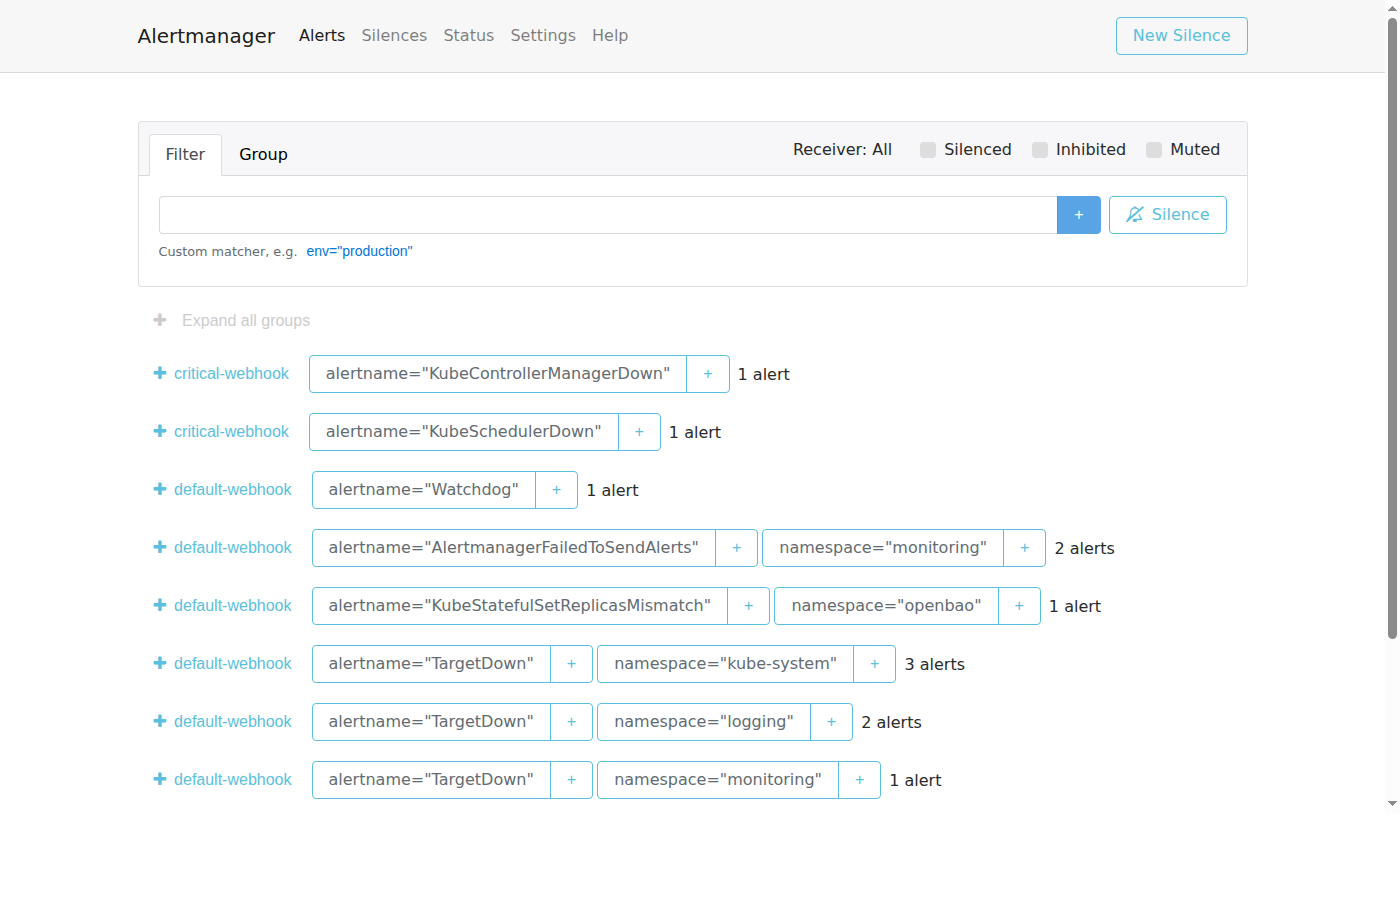
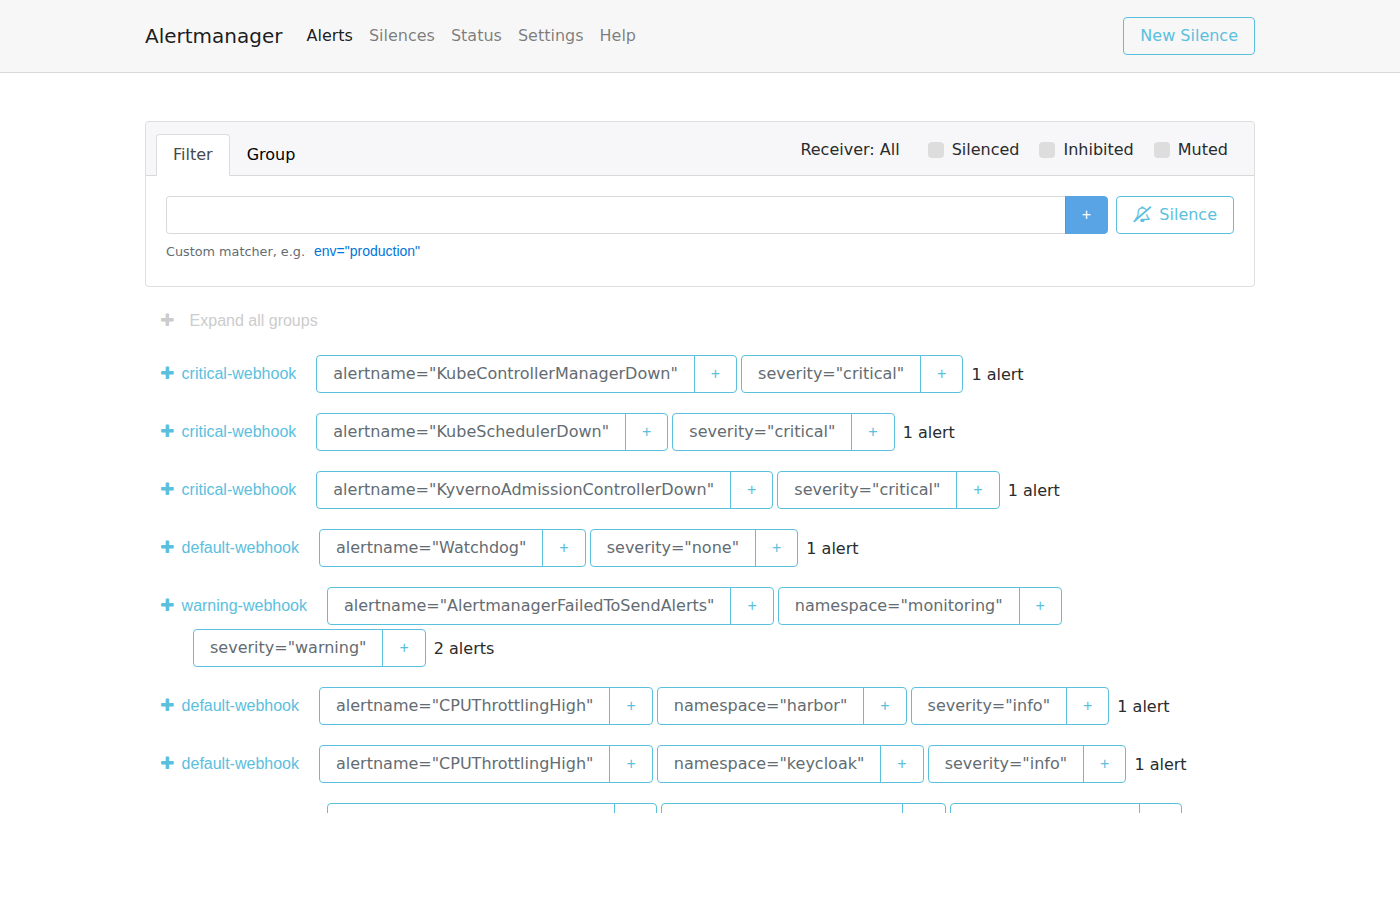
docs: update README and screenshots for full roadmap completion
- Retake all 8 screenshots (dashboard, grafana, prometheus, alertmanager,
  harbor, keycloak SSO login, neuvector, demo app)
- Update README: 18 components, Kyverno Enforce modes, secrets management,
  SSO/Keycloak config, observability details, CI/CD pipeline, compliance
  artifacts table, demo app, project structure updates
- Add Keycloak screenshot section

diff --git a/README.md b/README.md
@@ -5,15 +5,15 @@ A hardened, compliance-ready Kubernetes platform for deploying applications in r
 [![License](https://img.shields.io/badge/License-Apache_2.0-blue.svg)](LICENSE)
 [![RKE2](https://img.shields.io/badge/K8s-RKE2_v1.34-blue.svg)](https://docs.rke2.io)
 [![Flux CD](https://img.shields.io/badge/GitOps-Flux_CD_v2-blue.svg)](https://fluxcd.io)
-[![Components](https://img.shields.io/badge/Platform-16_components-green.svg)](#platform-components)
+[![Components](https://img.shields.io/badge/Platform-18_components-green.svg)](#platform-components)
 
 ---
 
 ## What You Get
 
-A complete Kubernetes platform with 16 integrated components, all deployed and managed through GitOps:
+A complete Kubernetes platform with 18 integrated components, all deployed and managed through GitOps:
 
-![SRE Dashboard showing 16/16 healthy components](docs/images/dashboard.png)
+![SRE Dashboard showing all healthy components](docs/images/dashboard.png)
 
 | Category | Components | What It Does |
 |----------|-----------|-------------|
@@ -141,8 +141,13 @@ Container behavioral monitoring, network microsegmentation, and CIS benchmark sc
 
 ![NeuVector](docs/images/neuvector.png)
 
+### Keycloak — SSO & Identity
+OIDC/SAML single sign-on for all platform UIs with group-based RBAC.
+
+![Keycloak](docs/images/keycloak.png)
+
 ### Demo App — Deployed via Dashboard
-A sample nginx app deployed through the dashboard, running with Istio mTLS sidecar injection.
+A sample app deployed through the dashboard, running with Istio mTLS sidecar injection.
 
 ![Demo App](docs/images/demo-app.png)
 
@@ -346,17 +351,63 @@ No `kubectl apply` needed. No manual cluster access. Git is the single source of
 | Harbor | 1.16.3 | harbor |
 | Keycloak | 24.8.1 | keycloak |
 
-### Kyverno Policies (7 active, Audit mode)
+### Kyverno Policies (7 active)
 
-| Policy | What It Enforces |
-|--------|-----------------|
-| `disallow-default-namespace` | Blocks deployments to the `default` namespace |
-| `disallow-latest-tag` | Blocks `:latest` image tags |
-| `require-labels` | Requires `app.kubernetes.io/name` and `sre.io/team` labels |
-| `require-network-policies` | Ensures every namespace has a default-deny NetworkPolicy |
-| `require-probes` | Requires liveness and readiness probes on all containers |
-| `require-resource-limits` | Requires CPU and memory limits on all containers |
-| `restrict-image-registries` | Restricts images to approved registries |
+| Policy | Mode | What It Enforces |
+|--------|------|-----------------|
+| `disallow-latest-tag` | **Enforce** | Blocks `:latest` image tags |
+| `require-labels` | **Enforce** | Requires `app.kubernetes.io/name` and `sre.io/team` labels |
+| `require-network-policies` | **Enforce** | Ensures every namespace has a default-deny NetworkPolicy |
+| `require-security-context` | Audit | Requires non-root, drop ALL capabilities |
+| `require-istio-sidecar` | Audit | Requires Istio sidecar injection labels |
+| `restrict-image-registries` | Audit | Restricts images to approved registries |
+| `verify-image-signatures` | Audit | Verifies Cosign signatures on images |
+
+### Secrets Management
+
+| Feature | Implementation |
+|---------|---------------|
+| **Secrets Vault** | OpenBao (auto-initialized, auto-unsealed) |
+| **K8s Integration** | External Secrets Operator syncs from OpenBao to K8s Secrets |
+| **Auth Method** | Kubernetes ServiceAccount-based authentication |
+| **Engines** | KV v2 (app secrets), PKI (certificates) |
+
+### SSO / Identity (Keycloak)
+
+| Feature | Detail |
+|---------|--------|
+| **Realm** | `sre` with OIDC discovery |
+| **Groups** | `platform-admins`, `developers`, `viewers` |
+| **OIDC Clients** | Grafana, Harbor, NeuVector, Dashboard |
+| **Test Users** | `sre-admin` / `admin123`, `developer` / `dev123` |
+
+### Observability
+
+| Feature | Detail |
+|---------|--------|
+| **Grafana Dashboards** | 5 custom SRE dashboards (cluster, namespace, istio, kyverno, flux) + 31 built-in |
+| **PrometheusRules** | 22 alerts across 8 groups (certs, flux, kyverno, nodes, storage, pods, security, istio) |
+| **Alertmanager** | Severity-based routing (critical/warning/info) with inhibition rules |
+
+### CI/CD Pipeline
+
+Reusable GitHub Actions workflows in `ci/github-actions/`:
+
+1. **Build** container image with Docker Buildx
+2. **Scan** with Trivy (fail on CRITICAL)
+3. **Generate SBOM** with Syft (SPDX + CycloneDX)
+4. **Sign** with Cosign
+5. **Push** to Harbor
+6. **Update** GitOps repo (Flux auto-deploys)
+
+### Compliance Artifacts
+
+| Artifact | Path |
+|----------|------|
+| OSCAL System Security Plan | `compliance/oscal/ssp.json` |
+| NIST 800-53 Control Mapping | `compliance/nist-800-53-mappings/control-mapping.json` |
+| CMMC 2.0 Level 2 Assessment | `compliance/cmmc/level2-assessment.json` |
+| RKE2 DISA STIG Checklist | `compliance/stig-checklists/rke2-stig.json` |
 
 ---
 
@@ -366,7 +417,7 @@ No `kubectl apply` needed. No manual cluster access. Git is the single source of
 sre-platform/
 ├── platform/                     # Flux CD GitOps manifests
 │   ├── flux-system/              # Flux bootstrap
-│   ├── core/                     # 13 core platform components
+│   ├── core/                     # Core platform components
 │   │   ├── istio/                # Service mesh (mTLS, gateway, auth)
 │   │   ├── cert-manager/         # TLS certificates
 │   │   ├── kyverno/              # Policy engine
@@ -381,9 +432,12 @@ sre-platform/
 │       ├── harbor/               # Container registry
 │       └── keycloak/             # Identity / SSO
 ├── apps/
-│   ├── dashboard/                # SRE Dashboard web app
+│   ├── dashboard/                # SRE Dashboard web app (v1.3.0)
+│   ├── demo-app/                 # Go demo app with Prometheus metrics
 │   ├── templates/                # Helm chart templates (web-app, worker, cronjob, api)
 │   └── tenants/                  # Per-team app configs (team-alpha, team-beta)
+├── ci/
+│   └── github-actions/           # Reusable CI/CD workflows (build, scan, sign, deploy)
 ├── policies/                     # Kyverno policies + test suites
 ├── infrastructure/
 │   ├── tofu/                     # OpenTofu modules (AWS, Azure, vSphere, Proxmox)
@@ -432,9 +486,11 @@ Every Kyverno policy, Helm chart, and Flux manifest includes `sre.io/nist-contro
 |-------|-------------|
 | [Architecture](docs/architecture.md) | Full platform spec and design rationale |
 | [Decision Records](docs/decisions.md) | ADRs for all major technology choices |
-| [Developer Guide](docs/developer-guide.md) | Deploy your app in 5 minutes |
+| [Developer Guide](docs/developer-guide.md) | Deploy your app, secrets management, SSO, CI/CD |
 | [Proxmox Guide](docs/getting-started-proxmox.md) | Build a cluster from scratch on Proxmox VE |
 | [Session Playbook](docs/session-playbook.md) | Step-by-step build plan |
+| [CI/CD Pipelines](ci/README.md) | Reusable GitHub Actions for build/scan/sign/deploy |
+| [Istio AuthZ Policies](platform/core/istio-config/authorization-policies/README.md) | Zero-trust network policies |
 
 ---
 
